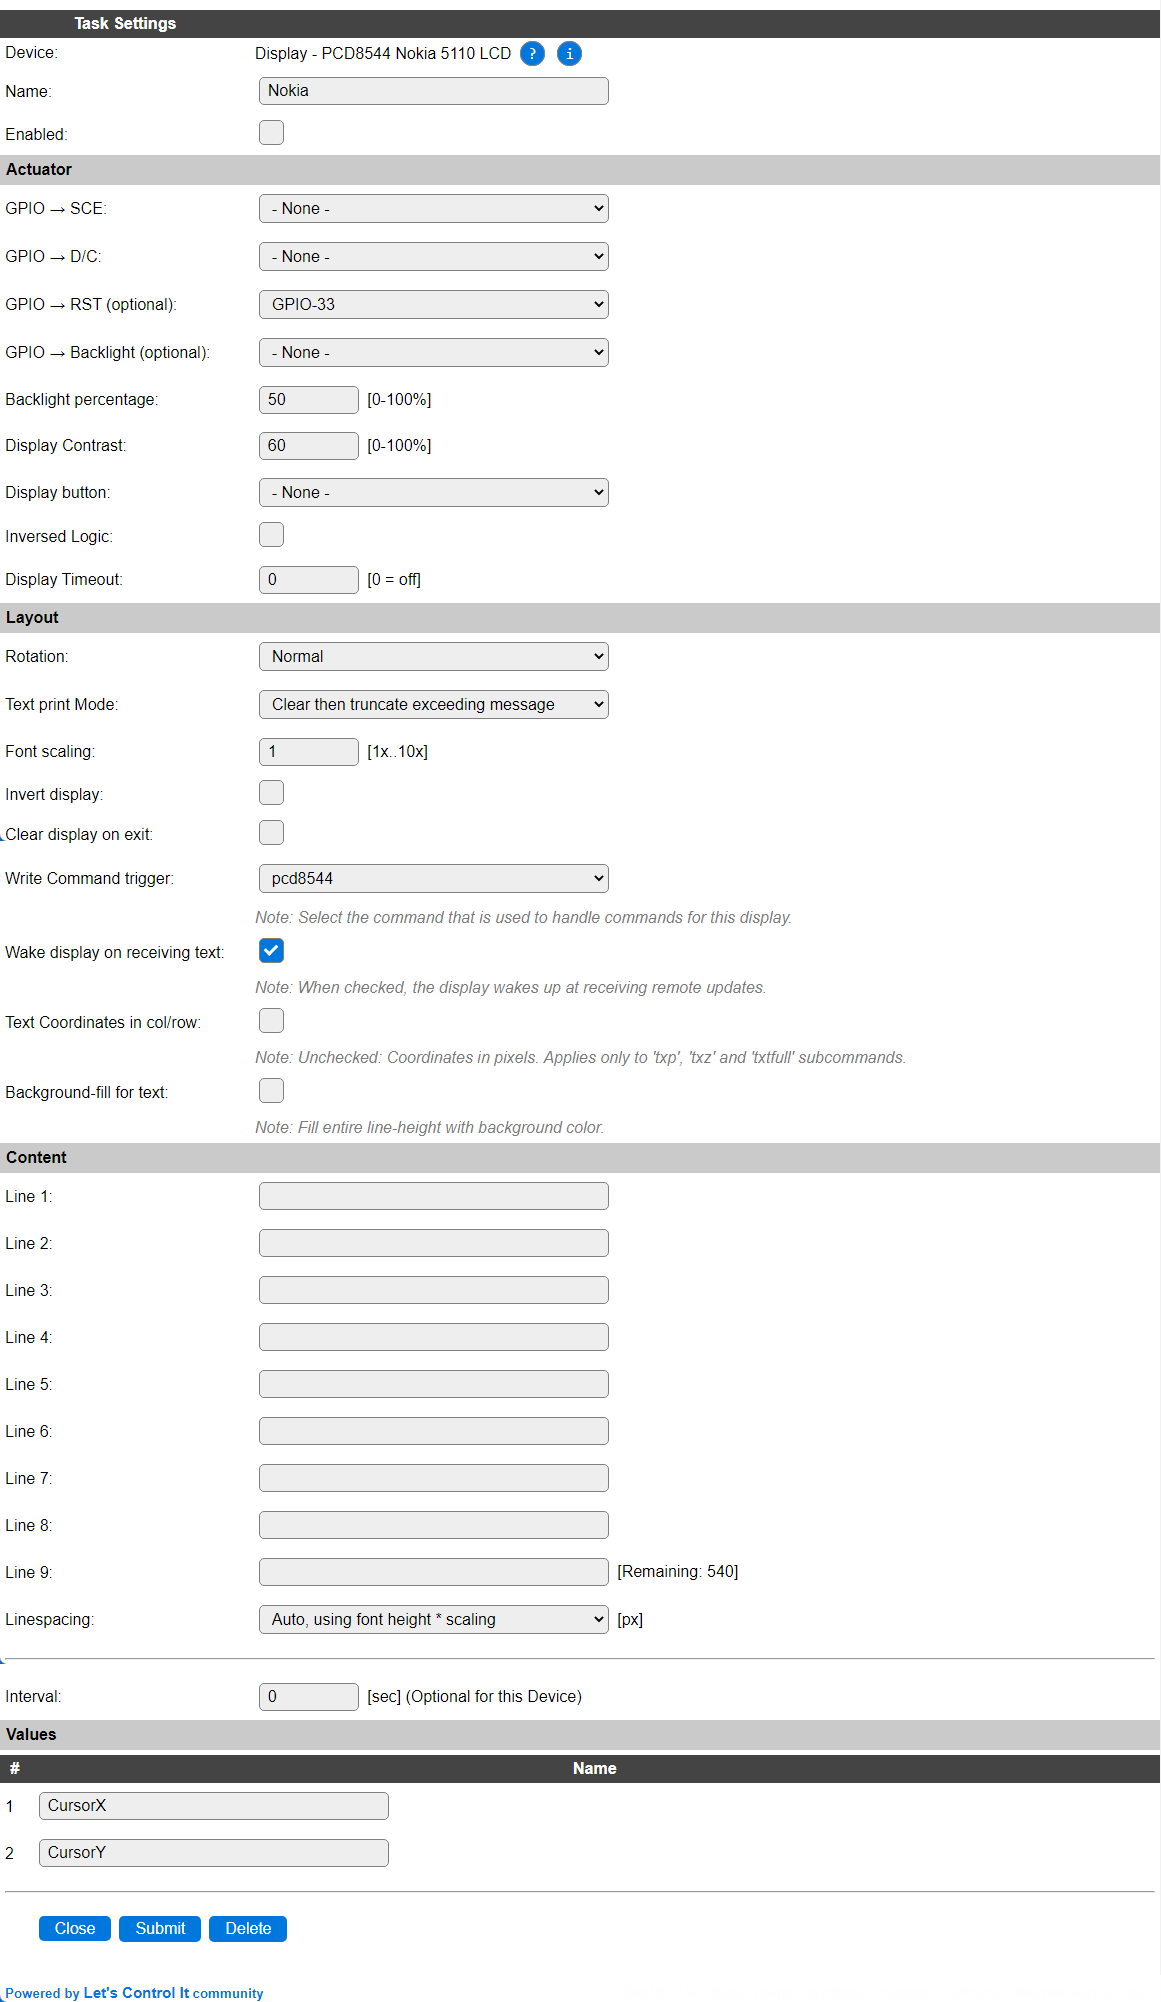
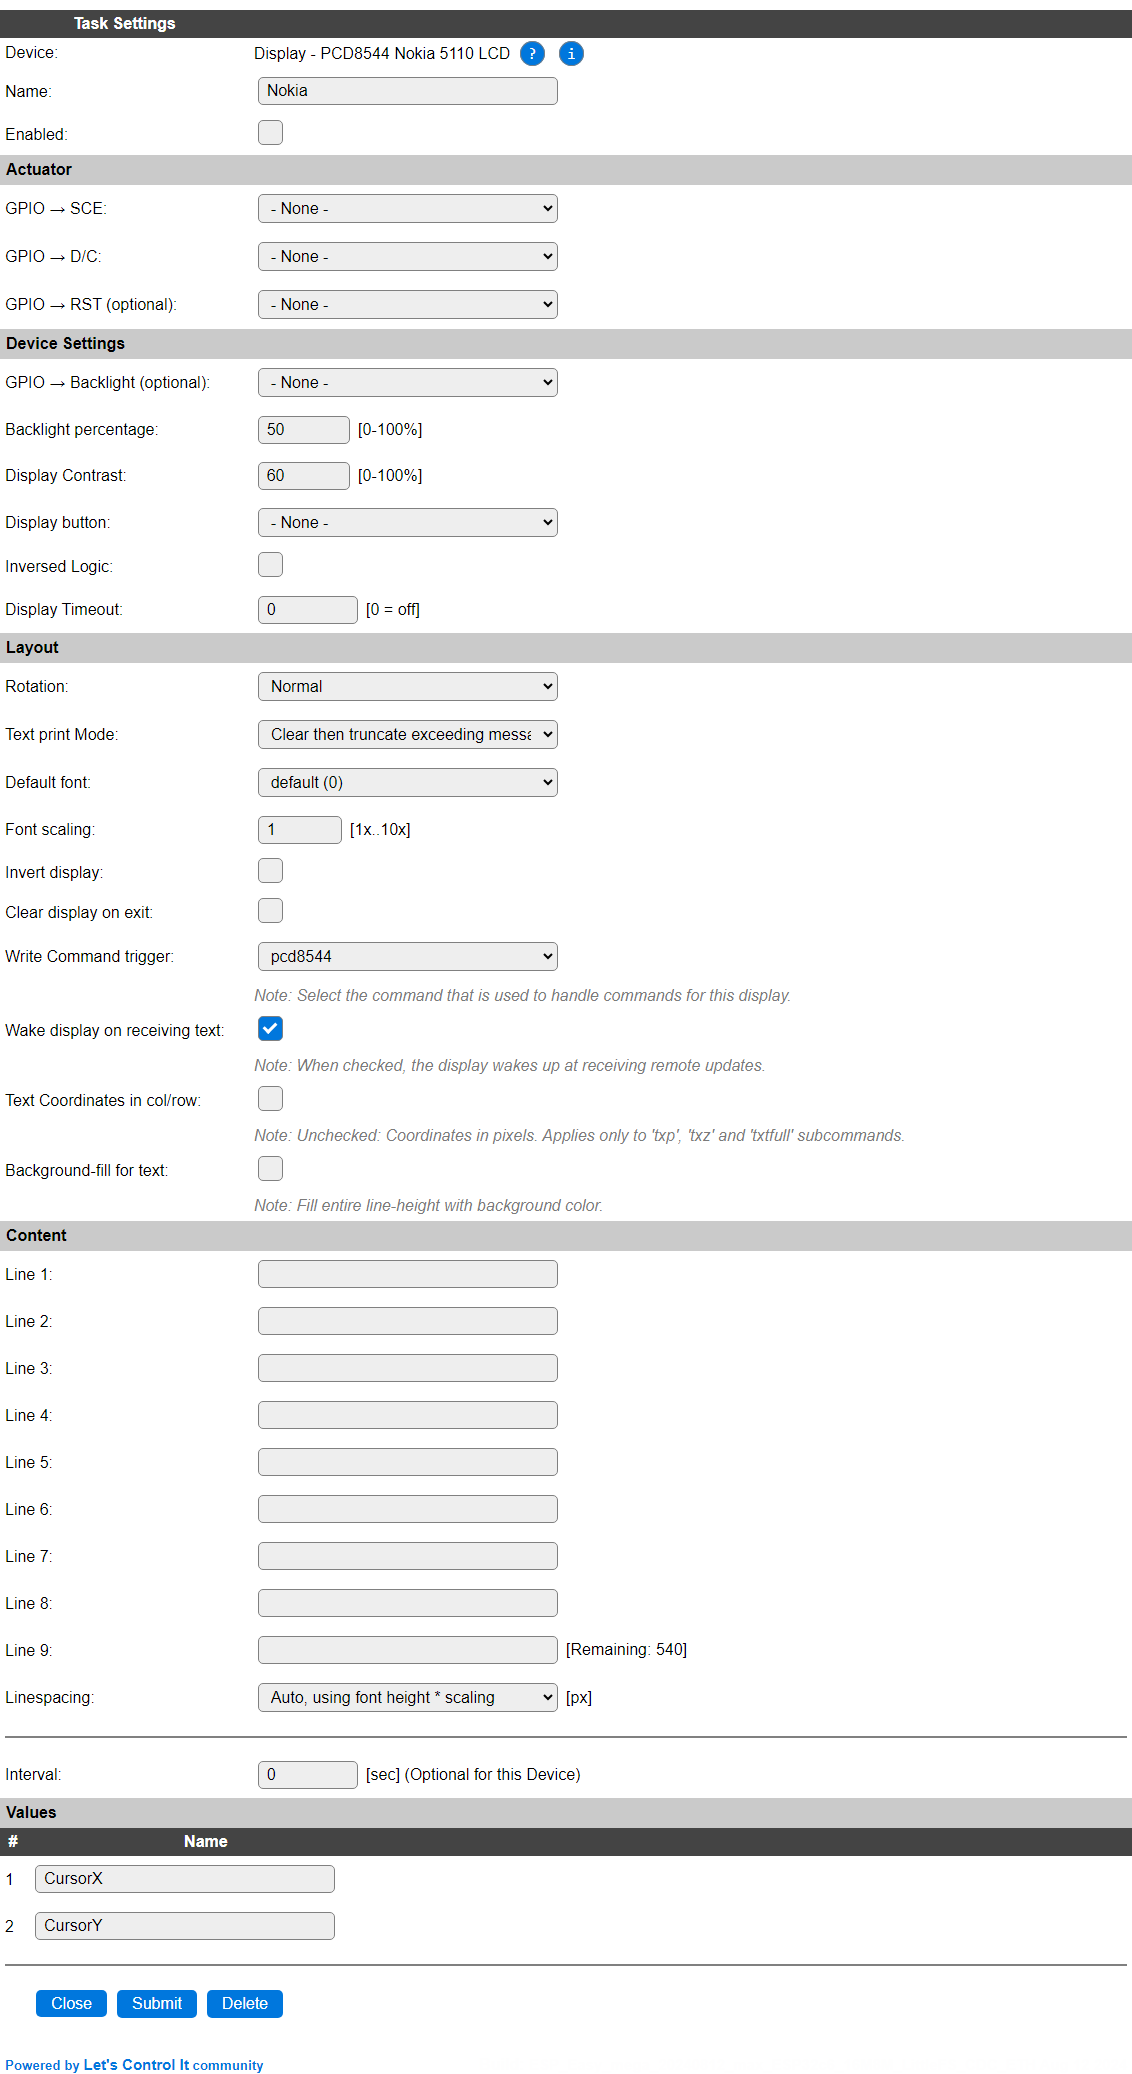
[P141] Add default font selection setting

Changed region(s): [[0.0, 0.0, 1.0, 1.0]]

diff --git a/src/src/PluginStructs/P141_data_struct.cpp b/src/src/PluginStructs/P141_data_struct.cpp
@@ -27,11 +27,19 @@ P141_data_struct::P141_data_struct(uint8_t             rotation,
                                    uint16_t            fgcolor,
                                    uint16_t            bgcolor,
                                    bool                textBackFill,
-                                   bool                displayInverted)
+                                   bool                displayInverted
+                                   # if                ADAGFX_FONTS_INCLUDED
+                                   ,
+                                   const uint8_t       defaultFontId
+                                   # endif // if ADAGFX_FONTS_INCLUDED
+                                   )
   : _rotation(rotation), _fontscaling(fontscaling), _textmode(textmode), _backlightPin(backlightPin),
   _backlightPercentage(backlightPercentage), _contrast(contrast), _displayTimer(displayTimer),
   _displayTimeout(displayTimer), _commandTrigger(commandTrigger), _fgcolor(fgcolor), _bgcolor(bgcolor),
   _textBackFill(textBackFill), _displayInverted(displayInverted)
+  # if ADAGFX_FONTS_INCLUDED
+  , _defaultFontId(defaultFontId)
+  # endif // if ADAGFX_FONTS_INCLUDED
 {
   _commandTrigger.toLowerCase();
   _commandTriggerCmd = concat(_commandTrigger, F("cmd"));
@@ -89,7 +97,11 @@ bool P141_data_struct::plugin_init(struct EventStruct *event) {
                                                       _fgcolor,
                                                       _bgcolor,
                                                       true,
-                                                      _textBackFill);
+                                                      _textBackFill
+                                                      # if ADAGFX_FONTS_INCLUDED
+                                                      , _defaultFontId
+                                                      # endif // if ADAGFX_FONTS_INCLUDED
+                                                      );
 
     displayOnOff(true);
 

diff --git a/src/src/PluginStructs/P141_data_struct.h b/src/src/PluginStructs/P141_data_struct.h
@@ -32,6 +32,7 @@
 # define P141_CONFIG_CONTRAST           PCONFIG(2)       // Contrast
 # define P141_CONFIG_BACKLIGHT_PIN      PCONFIG(3)       // Backlight pin
 # define P141_CONFIG_BACKLIGHT_PERCENT  PCONFIG(4)       // Backlight percentage
+# define P141_CONFIG_DEFAULT_FONT       PCONFIG(5)       // Default font
 
 # define P141_CONFIG_FLAGS              PCONFIG_ULONG(0) // All flags
 # define P141_CONFIG_FLAG_NO_WAKE       0                // Flag: Don't wake display
@@ -89,7 +90,12 @@ public:
                    uint16_t            fgcolor         = ADAGFX_WHITE,
                    uint16_t            bgcolor         = ADAGFX_BLACK,
                    bool                textBackFill    = true,
-                   bool                displayInverted = false);
+                   bool                displayInverted = false
+                   # if                ADAGFX_FONTS_INCLUDED
+                   ,
+                   const uint8_t       defaultFontId = 0
+                   # endif // if ADAGFX_FONTS_INCLUDED
+                   );
   P141_data_struct()                                   = delete;
   virtual ~P141_data_struct();
 
@@ -145,6 +151,9 @@ private:
   uint16_t            _bgcolor;
   bool                _textBackFill;
   bool                _displayInverted;
+  # if ADAGFX_FONTS_INCLUDED
+  uint8_t _defaultFontId;
+  # endif // if ADAGFX_FONTS_INCLUDED
 
   String _commandTriggerCmd;
 

diff --git a/docs/source/Plugin/P141.rst b/docs/source/Plugin/P141.rst
@@ -123,6 +123,8 @@ Available options:
 
 Default setting is *Clear then truncate exceeding message*.
 
+* **Default font**: If extra fonts are available in the build (excluded from some builds because of .bin size issues), the default font at initialization can be selected. The names/numbers that can be used in the ``<trigger>,font,<fontname|fontnr>`` are shown in the combobox, and documented below in the **AdafruitGFX_Helper** documentation. The font numbers aren't consecutive if all fonts aren't included, to keep them consistent across builds.
+
 * **Font scaling** The scaling factor for the currently active font. Select a factor between 1 and 10.
 
 * **Invert display**: This monochrome display supports inverting the content. The default can be set here.
